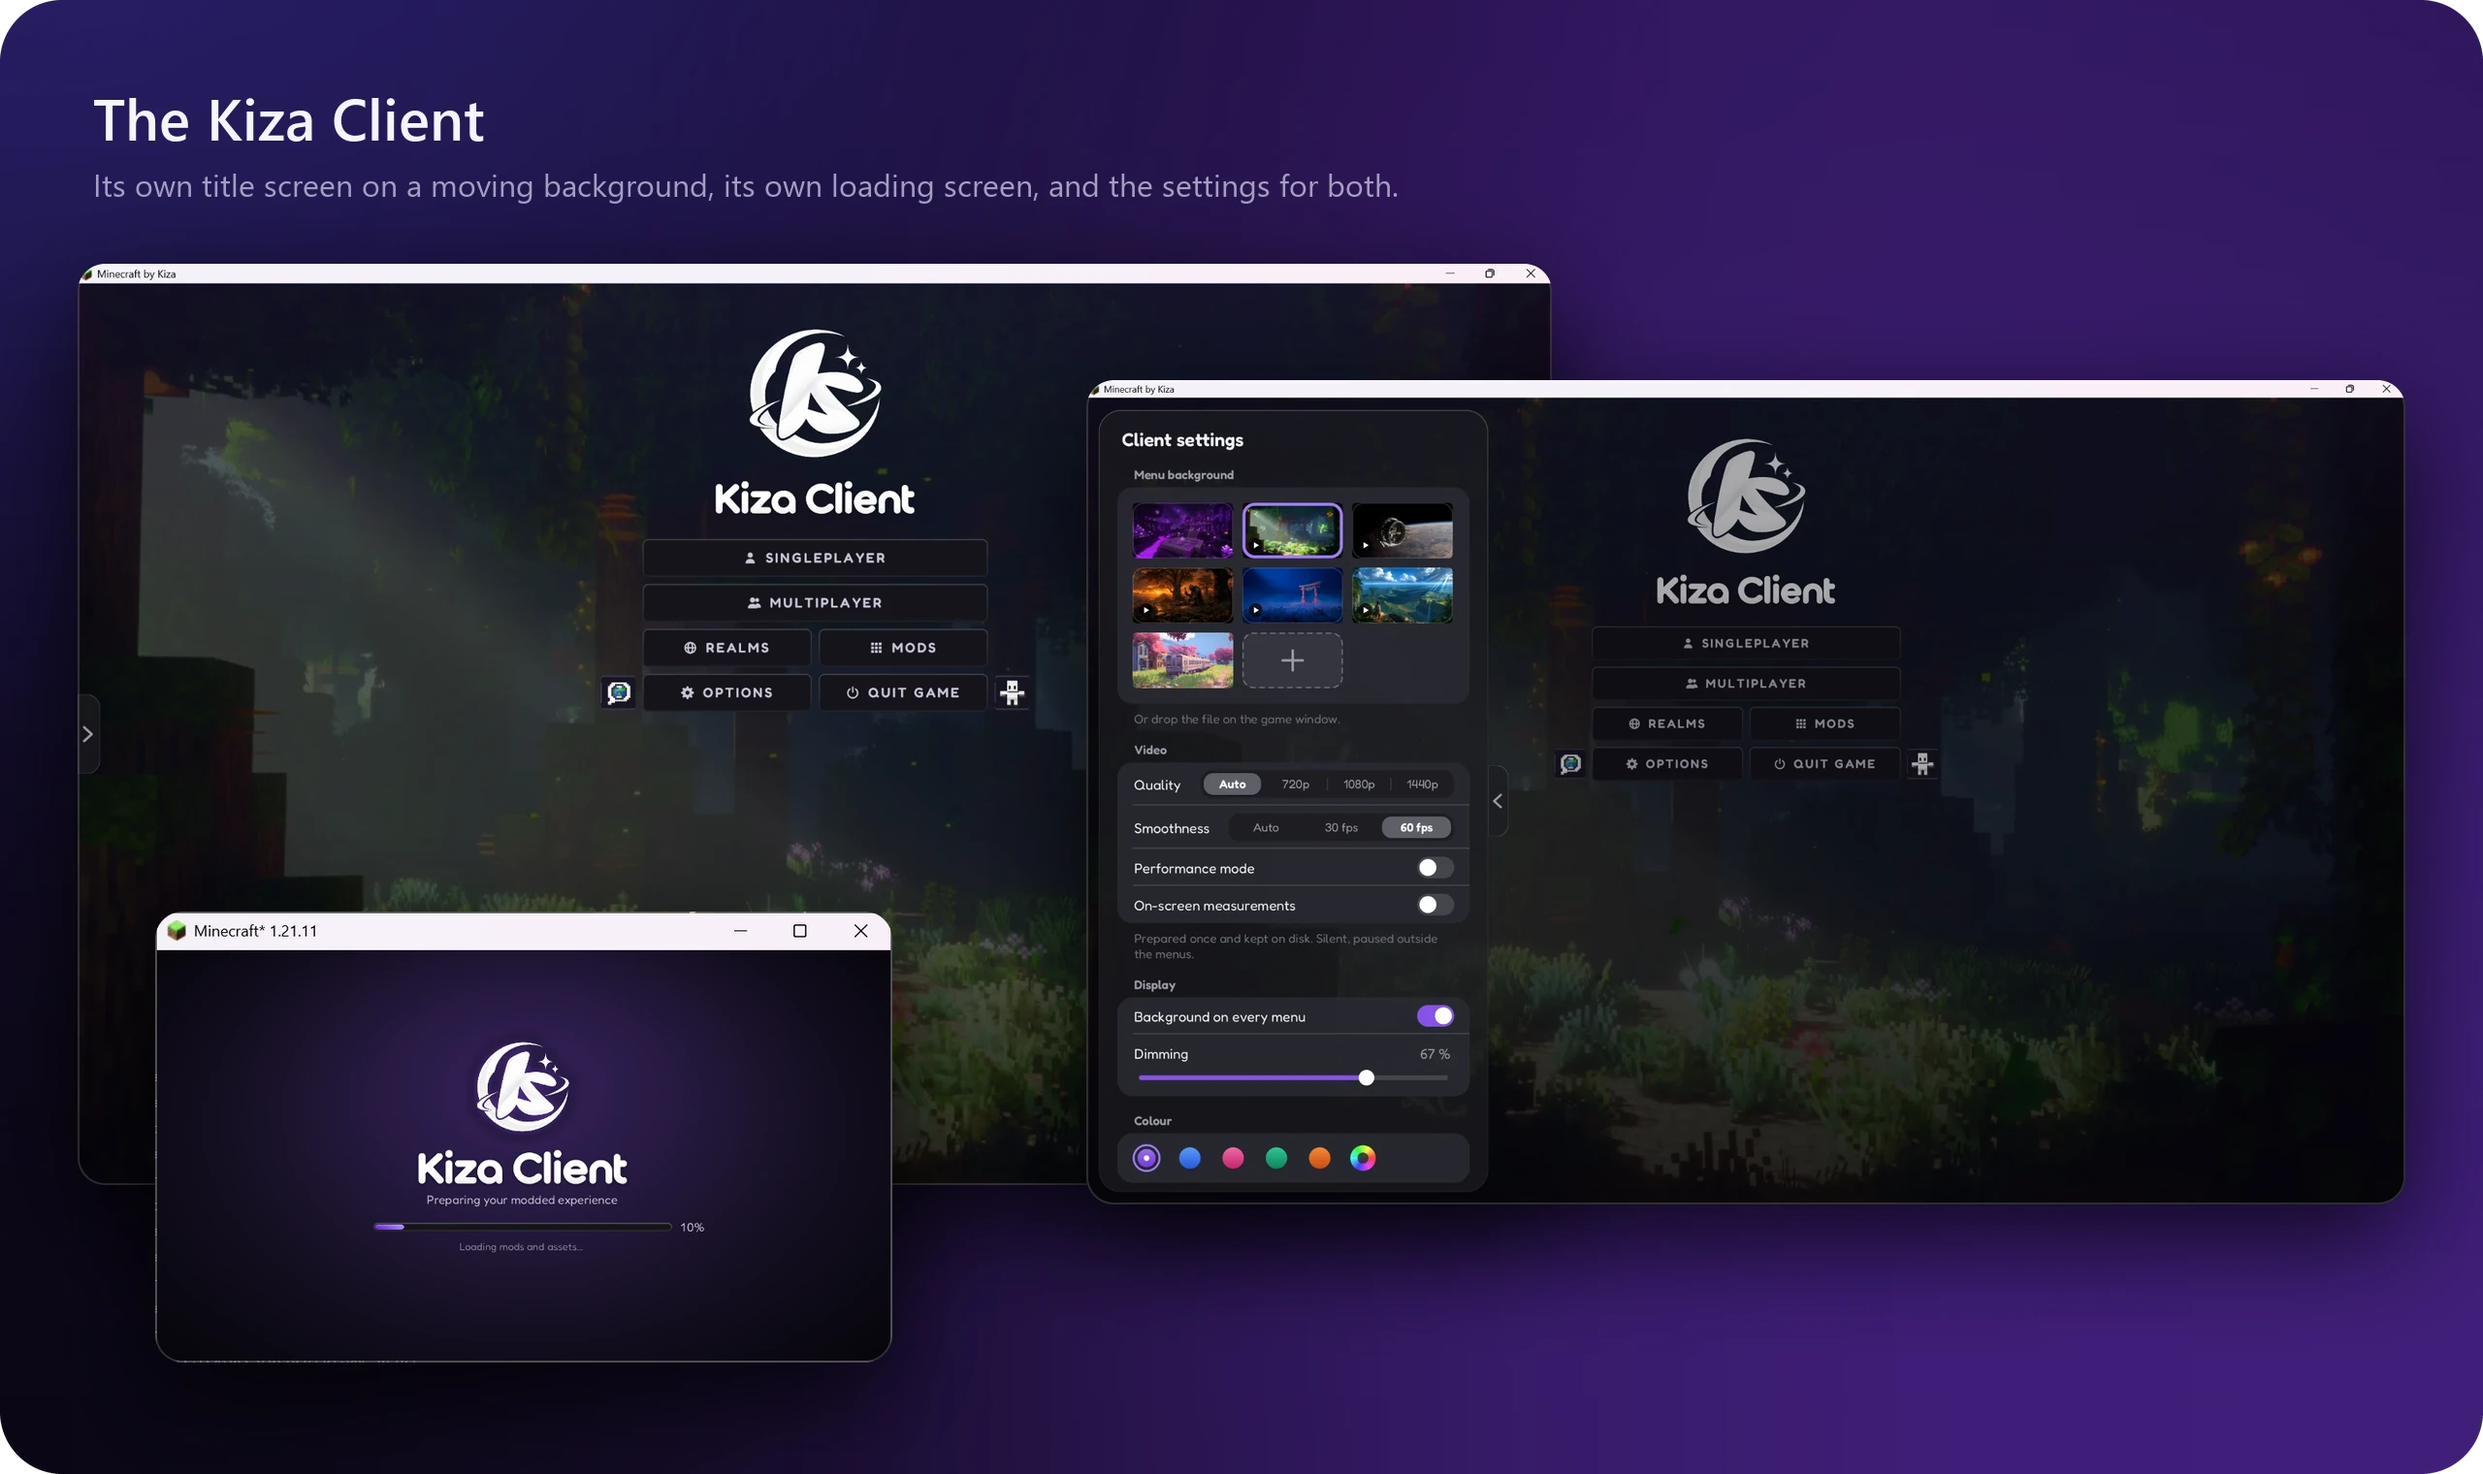
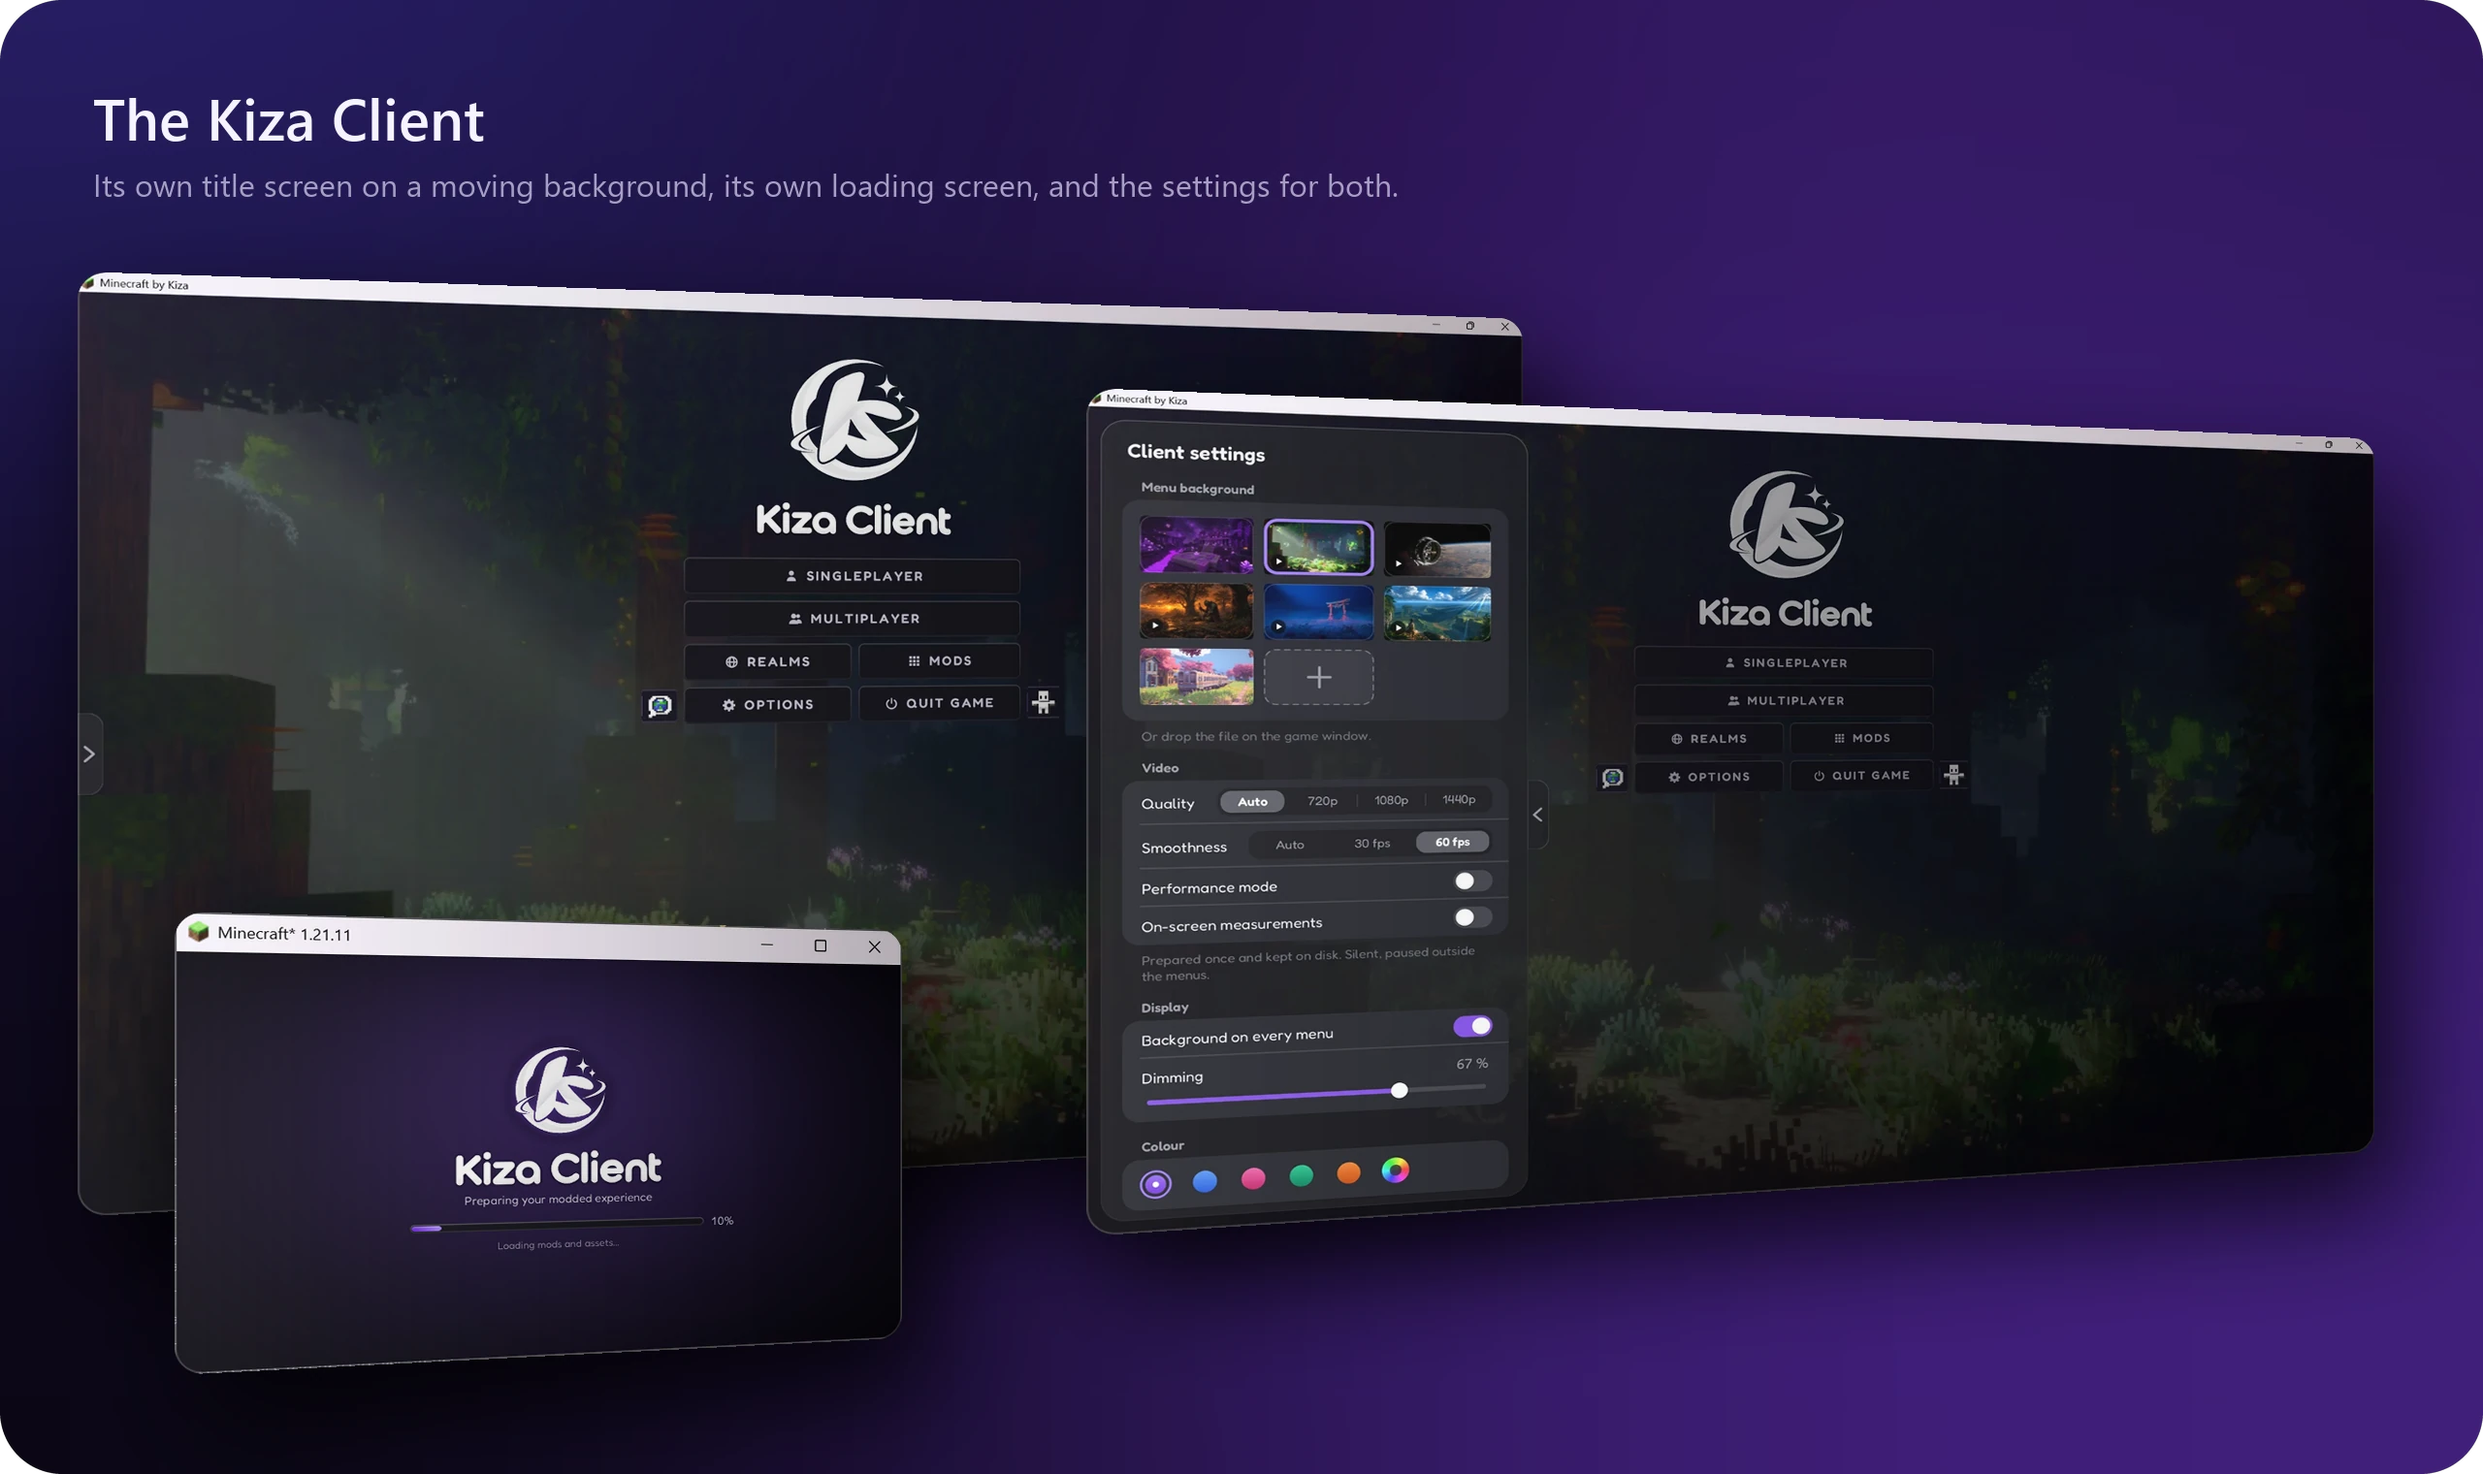
README: windows turned toward the right, with depth

diff --git a/.github/readme/draw.py b/.github/readme/draw.py
@@ -7,6 +7,8 @@ import os
 import sys
 import textwrap
 
+import numpy
+
 from PIL import Image, ImageDraw, ImageFilter
 
 # Run from the repository root: python .github/readme/draw.py .
@@ -112,6 +114,53 @@ def glow(size, center, radius, colour, alpha):
     return layer.filter(ImageFilter.GaussianBlur(radius * 0.45))
 
 
+def _perspective_coefficients(to_points, from_points):
+    """PIL's PERSPECTIVE data: maps each output corner back to the input's."""
+    rows, values = [], []
+    for (X, Y), (x, y) in zip(to_points, from_points):
+        rows.append([X, Y, 1, 0, 0, 0, -x * X, -x * Y])
+        rows.append([0, 0, 0, X, Y, 1, -y * X, -y * Y])
+        values += [x, y]
+    return numpy.linalg.solve(numpy.array(rows, float), numpy.array(values, float)).tolist()
+
+
+def turned(img, depth=0.12, lift=0.0):
+    """
+    The window turned toward the right, as a screen seen from its left: its
+    left edge near and whole, its right edge further, so shorter, and a
+    touch higher with `lift`. Lit from the left, dimmer as it goes back.
+    """
+    img = img.convert("RGBA")
+    w, h = img.size
+    far_w = w * (1 - 0.32 * depth)
+    shrink = h * depth / 2
+    corners = [(0, 0), (far_w, shrink - h * lift), (far_w, h - shrink - h * lift), (0, h)]
+    top = min(y for _, y in corners)
+    corners = [(x, y - top) for x, y in corners]
+    size = (int(far_w) + 1, int(max(y for _, y in corners)) + 1)
+    data = _perspective_coefficients(corners, [(0, 0), (w, 0), (w, h), (0, h)])
+    out_img = img.transform(size, Image.PERSPECTIVE, data, Image.BICUBIC)
+    # Light from the left, falling off toward the far edge.
+    alpha = out_img.getchannel("A")
+    for colour, strength in (((255, 255, 255), lambda t: 24 * (1 - t) ** 2), ((0, 0, 0), lambda t: 72 * t ** 1.6)):
+        ramp = Image.new("RGBA", (size[0], 1))
+        for x in range(size[0]):
+            ramp.putpixel((x, 0), colour + (int(strength(x / max(1, size[0] - 1))),))
+        layer = Image.new("RGBA", size, (0, 0, 0, 0))
+        layer.paste(ramp.resize(size), (0, 0), alpha)
+        out_img.alpha_composite(layer)
+    return out_img
+
+
+def set_down(canvas, img, x, y, blur):
+    """A turned window on the canvas, with the shadow its own shape casts."""
+    shadow = Image.new("RGBA", canvas.size, (0, 0, 0, 0))
+    dark = Image.new("RGBA", img.size, (0, 0, 0, 200))
+    shadow.paste(dark, (x + blur // 2, y + blur), img.getchannel("A"))
+    canvas.alpha_composite(shadow.filter(ImageFilter.GaussianBlur(blur)))
+    canvas.alpha_composite(img, (x, y))
+
+
 # ---------- showcase: the library on its glow ----------
 shot = Image.open(os.path.join(shots, "library.webp")).convert("RGBA")
 shot = shot.resize((1800, int(shot.height * 1800 / shot.width)), Image.LANCZOS)
@@ -119,11 +168,8 @@ W, H = 2200, shot.height + 260
 canvas = gradient((W, H), (20, 11, 39), (10, 7, 20))
 canvas.alpha_composite(glow((W, H), (W // 2, H // 2), 900, (124, 58, 237), 120))
 canvas.alpha_composite(glow((W, H), (350, 120), 500, (79, 70, 229), 90))
-x, y = (W - shot.width) // 2, 140
-shadow = Image.new("RGBA", (W, H), (0, 0, 0, 0))
-ImageDraw.Draw(shadow).rounded_rectangle((x, y + 30, x + shot.width, y + shot.height + 30), 28, fill=(0, 0, 0, 200))
-canvas.alpha_composite(shadow.filter(ImageFilter.GaussianBlur(40)))
-canvas.alpha_composite(rounded(shot, 26, (255, 255, 255, 40)), (x, y))
+window = turned(rounded(shot, 26, (255, 255, 255, 40)), depth=0.1)
+set_down(canvas, window, (W - window.width) // 2, (H - window.height) // 2 + 10, 40)
 final = Image.new("RGBA", (W, H), (0, 0, 0, 0))
 final.paste(canvas, (0, 0), rounded_mask((W, H), 56))
 final.save(os.path.join(out, "showcase.webp"), "WEBP", quality=88, method=6)
@@ -312,7 +358,8 @@ final.save(os.path.join(out, "features.webp"), "WEBP", quality=90, method=6)
 
 # ---------- scenes: several windows laid over one another, on the glow ----------
 def scene(name, title, subtitle, windows, size=(1280, 740)):
-    """`windows` from the back to the front: (picture, x, y, width)."""
+    """`windows` from the back to the front: (picture, x, y, width, depth), each
+    turned toward the right by its depth."""
     W, H = size
     canvas = gradient(px(W, H), (20, 11, 39), (10, 7, 20))
     canvas.alpha_composite(glow(canvas.size, px(W * 0.7, H * 0.55), 640 * S, (124, 58, 237), 120))
@@ -320,14 +367,10 @@ def scene(name, title, subtitle, windows, size=(1280, 740)):
     d = ImageDraw.Draw(canvas)
     d.text(px(48, 40), title, font=font("seguisb.ttf", 30), fill=WHITE)
     d.text(px(48, 84), subtitle, font=font("segoeui.ttf", 16), fill=GREY)
-    for picture, x, y, width in windows:
+    for picture, x, y, width, depth in windows:
         img = picture.convert("RGBA")
         img = img.resize(px(width, width * img.height / img.width), Image.LANCZOS)
-        shadow = Image.new("RGBA", canvas.size, (0, 0, 0, 0))
-        ImageDraw.Draw(shadow).rounded_rectangle(
-            (x * S, (y + 18) * S, x * S + img.width, (y + 18) * S + img.height), 18 * S, fill=(0, 0, 0, 190))
-        canvas.alpha_composite(shadow.filter(ImageFilter.GaussianBlur(26 * S)))
-        canvas.alpha_composite(rounded(img, 14 * S, (255, 255, 255, 40)), px(x, y))
+        set_down(canvas, turned(rounded(img, 14 * S, (255, 255, 255, 40)), depth, 0.02), x * S, y * S, 26 * S)
     final = Image.new("RGBA", canvas.size, (0, 0, 0, 0))
     final.paste(canvas, (0, 0), rounded_mask(canvas.size, 32 * S))
     final.save(os.path.join(out, name), "WEBP", quality=90, method=6)
@@ -342,9 +385,9 @@ scene(
     "Inside an instance",
     "Every kind of content in its own place, and the game's log while it runs.",
     [
-        (shot("shaders.webp"), 470, 136, 770),
-        (shot("mods.webp"), 40, 196, 760),
-        (shot("manager-log.png"), 800, 372, 440),
+        (shot("shaders.webp"), 500, 140, 760, 0.16),
+        (shot("mods.webp"), 40, 196, 780, 0.14),
+        (shot("manager-log.png"), 820, 380, 430, 0.12),
     ],
 )
 scene(
@@ -352,9 +395,9 @@ scene(
     "The Kiza Client",
     "Its own title screen on a moving background, its own loading screen, and the settings for both.",
     [
-        (shot("client-menu.webp"), 40, 136, 760),
-        (shot("client-settings.webp"), 560, 196, 680),
-        (shot("client-loading.png"), 80, 470, 380),
+        (shot("client-menu.webp"), 40, 140, 780, 0.14),
+        (shot("client-settings.webp"), 560, 200, 700, 0.16),
+        (shot("client-loading.png"), 90, 470, 390, 0.12),
     ],
     size=(1280, 760),
 )
